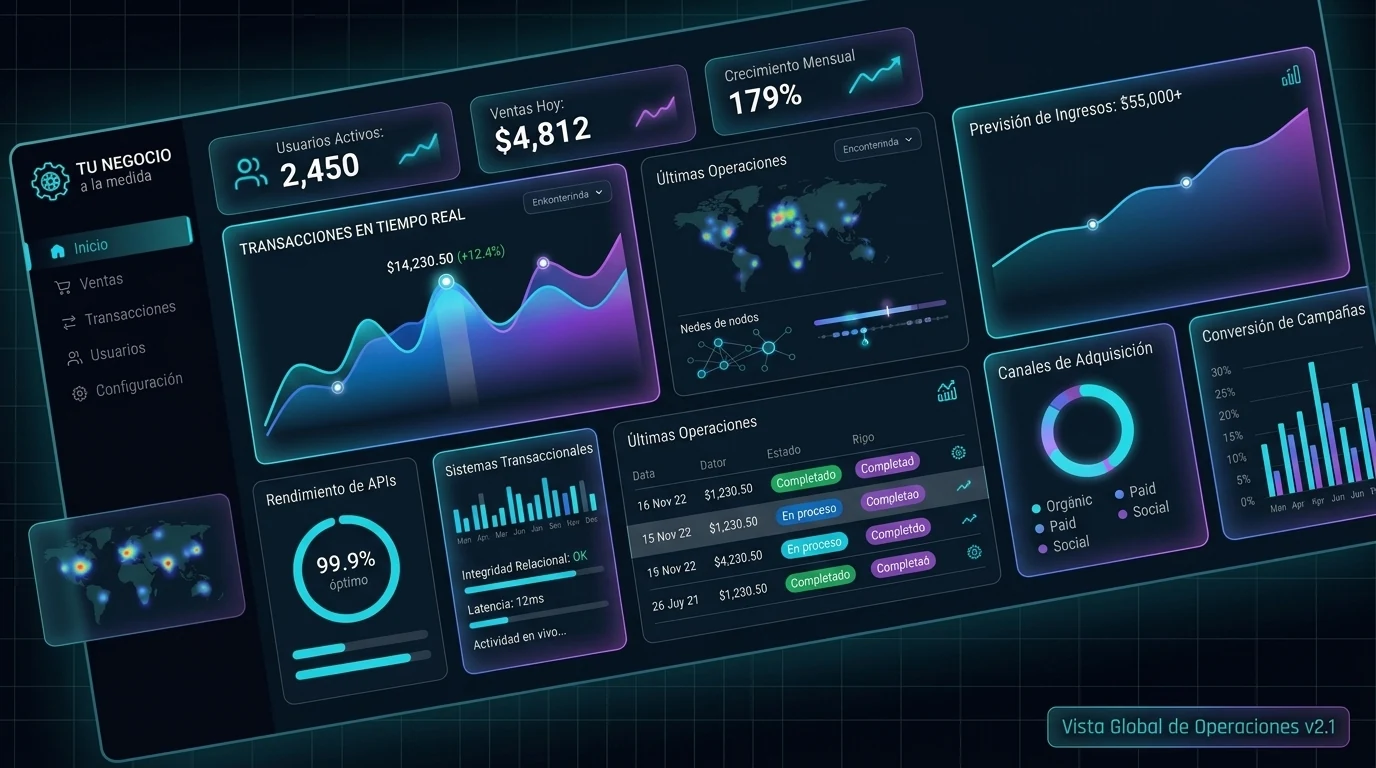
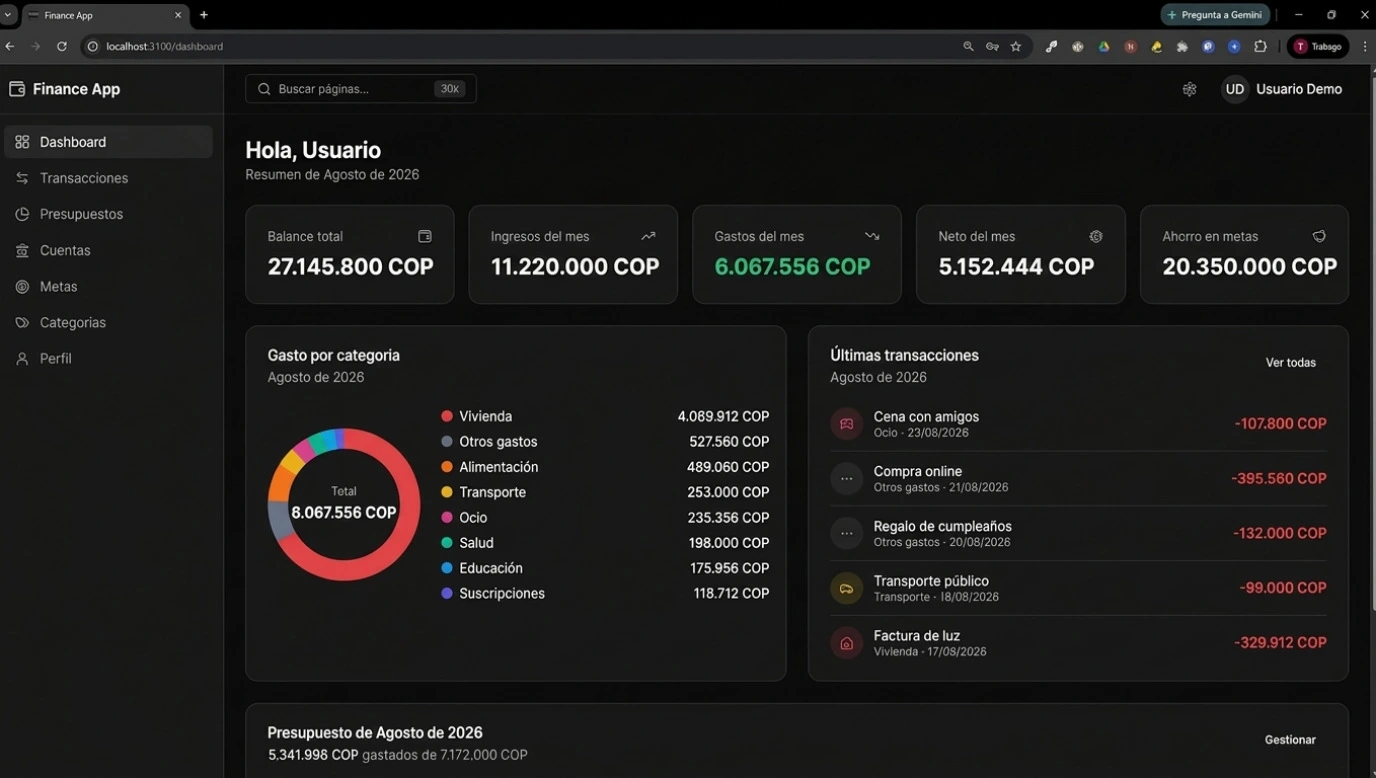
feat: correciones de diseño

diff --git a/src/app/pages/home/home.component.html b/src/app/pages/home/home.component.html
@@ -248,7 +248,7 @@
   </section>
 
   <!-- ========================================================================= -->
-  <!-- SECCIÓN EN COLOR NEGRO: Caso Insignia Validado (Repuestos Automotrices)   -->
+  <!-- SECCIÓN EN COLOR NEGRO: División Tecnología – Software a Medida            -->
   <!-- ========================================================================= -->
   <section class="relative bg-[#07070e] py-24 md:py-32 text-white overflow-hidden">
     <!-- Ambient Blue Glow -->
@@ -262,18 +262,18 @@
           <div
             class="inline-flex items-center gap-2 rounded-full border border-[#2F6BFF]/40 bg-[#2F6BFF]/10 px-3.5 py-1 text-xs font-mono uppercase tracking-wider text-[#5C98FF]">
             <span class="h-1.5 w-1.5 rounded-full bg-[#2F6BFF] animate-pulse"></span>
-            Caso de Validación Real
+            División Tecnología · Software a Medida
           </div>
 
           <h2
             class="font-display font-bold text-3xl sm:text-4xl lg:text-5xl text-white tracking-[-0.03em] leading-tight">
-            Digitalización Inteligente para Negocio de Repuestos Automotrices.
+            Control total de ventas, gastos e ingresos desde un solo lugar.
           </h2>
 
           <p class="text-zinc-300 text-base sm:text-lg leading-relaxed">
-            Tensor cuenta con una experiencia concreta que sirvió como punto de partida para la división tecnológica: el
-            desarrollo de un sistema para apoyar la administración y control interno de un negocio familiar de
-            repuestos.
+            Creamos software personalizado para que negocios y personas lleven sus registros financieros de forma
+            ordenada, visual y sin complicaciones: desde las ventas diarias de un comercio hasta el control de ingresos
+            y gastos personales mes a mes.
           </p>
 
           <div class="space-y-4 pt-2">
@@ -282,9 +282,9 @@
                 class="mt-1 flex h-6 w-6 shrink-0 items-center justify-center rounded-lg bg-[#2F6BFF]/20 text-[#5C98FF] font-mono text-xs font-bold">
                 ✓</div>
               <div>
-                <strong class="text-white text-sm block">Lectura de Registros Manuscritos con IA</strong>
-                <p class="text-xs text-zinc-400">Interpreta fotografías de cuadernos diarios escritos a mano, extrayendo
-                  ventas y calculando totales sin digitación manual.</p>
+                <strong class="text-white text-sm block">Registro de Ventas Diarias y Mensuales</strong>
+                <p class="text-xs text-zinc-400">Registra cada venta en segundos y obtén resúmenes automáticos por día,
+                  semana o mes con totales claros y sin fórmulas en Excel.</p>
               </div>
             </div>
 
@@ -293,9 +293,9 @@
                 class="mt-1 flex h-6 w-6 shrink-0 items-center justify-center rounded-lg bg-[#2F6BFF]/20 text-[#5C98FF] font-mono text-xs font-bold">
                 ✓</div>
               <div>
-                <strong class="text-white text-sm block">Diferenciación de Nequi y Bancolombia</strong>
-                <p class="text-xs text-zinc-400">Separa automáticamente los movimientos de dinero en efectivo frente a
-                  transferencias bancarias de plataformas móviles.</p>
+                <strong class="text-white text-sm block">Control de Gastos e Ingresos Personales</strong>
+                <p class="text-xs text-zinc-400">Categoriza cada movimiento de dinero, establece presupuestos y
+                  visualiza en tiempo real cuánto llevas gastado e ingresado en el mes.</p>
               </div>
             </div>
 
@@ -304,9 +304,9 @@
                 class="mt-1 flex h-6 w-6 shrink-0 items-center justify-center rounded-lg bg-[#2F6BFF]/20 text-[#5C98FF] font-mono text-xs font-bold">
                 ✓</div>
               <div>
-                <strong class="text-white text-sm block">Resúmenes Mensuales & Gastos Operativos</strong>
-                <p class="text-xs text-zinc-400">Consolida pagos a proveedores, servicios públicos y gastos fijos para
-                  brindar un reporte claro de la salud del negocio.</p>
+                <strong class="text-white text-sm block">Dashboard con Indicadores Clave</strong>
+                <p class="text-xs text-zinc-400">Balance total, ingresos del mes, gastos por categoría y neto disponible
+                  en un panel intuitivo diseñado para tomar decisiones rápidas.</p>
               </div>
             </div>
 
@@ -315,16 +315,16 @@
                 class="mt-1 flex h-6 w-6 shrink-0 items-center justify-center rounded-lg bg-[#2F6BFF]/20 text-[#5C98FF] font-mono text-xs font-bold">
                 ✓</div>
               <div>
-                <strong class="text-white text-sm block">Revisión Humana & Trazabilidad</strong>
-                <p class="text-xs text-zinc-400">No prometemos infalibilidad mágica: el sistema incluye interfaces para
-                  que el comerciante revise y apruebe cada dato antes de consolidarlo.</p>
+                <strong class="text-white text-sm block">Adaptado a tu Negocio o Perfil</strong>
+                <p class="text-xs text-zinc-400">No es una plantilla genérica: construimos la herramienta según tus
+                  categorías, métodos de pago y la forma en que ya trabajas.</p>
               </div>
             </div>
           </div>
 
           <div class="pt-4 flex flex-wrap items-center gap-4">
             <a routerLink="/labs" class="button-blue text-xs">
-              <span>Probar Simulador del Sistema</span>
+              <span>Ver Demo del Sistema</span>
             </a>
             <a routerLink="/contacto" class="button-ghost text-xs">
               <span>Consultar para tu Negocio</span>
@@ -350,11 +350,11 @@
                 </div>
                 <div
                   class="flex items-center gap-2 rounded-full border border-white/[0.06] bg-black/40 px-3 py-1 font-mono text-[10px] uppercase tracking-wider text-zinc-400">
-                  <span class="text-[#5C98FF]">tensor://</span>repuestos-auto/reporte-diario
+                  <span class="text-[#5C98FF]">tensor://</span>finance-app/dashboard
                 </div>
                 <div class="flex items-center gap-1.5 font-mono text-[10px] text-emerald-400">
                   <span class="h-1.5 w-1.5 rounded-full bg-emerald-400 animate-pulse"></span>
-                  <span>DATOS PROCESADOS</span>
+                  <span>EN VIVO</span>
                 </div>
               </div>
 
@@ -364,7 +364,7 @@
                   <source srcset="transaccional.webp" type="image/webp" />
                   <source srcset="transaccional.jpeg" type="image/jpeg" />
                   <img src="transaccional.webp" (error)="$any($event.target).src = 'transaccional.jpeg'"
-                    alt="Sistema de digitalización y reportes para negocio de repuestos"
+                    alt="Demo de software financiero a medida: dashboard con ventas, gastos e ingresos"
                     class="w-full h-auto object-cover transition-transform duration-700 ease-[cubic-bezier(0.16,1,0.3,1)] group-hover:scale-[1.015]"
                     loading="lazy" />
                 </picture>
@@ -374,16 +374,16 @@
               <div
                 class="p-6 bg-[#0e1120] border-t border-white/[0.06] font-mono text-xs grid grid-cols-3 gap-3 text-center">
                 <div class="rounded-lg bg-white/[0.03] p-3 border border-white/5">
-                  <span class="text-[10px] text-zinc-400 uppercase block">Ventas Efectivo</span>
-                  <span class="text-white font-bold text-sm">$ 840.000 COP</span>
+                  <span class="text-[10px] text-zinc-400 uppercase block">Ingresos del Mes</span>
+                  <span class="text-white font-bold text-sm">$ 11.220.000 COP</span>
                 </div>
                 <div class="rounded-lg bg-[#2F6BFF]/10 p-3 border border-[#2F6BFF]/20">
-                  <span class="text-[10px] text-[#5C98FF] uppercase block">Nequi / Bancolombia</span>
-                  <span class="text-[#5C98FF] font-bold text-sm">$ 620.000 COP</span>
+                  <span class="text-[10px] text-[#5C98FF] uppercase block">Gastos del Mes</span>
+                  <span class="text-[#5C98FF] font-bold text-sm">$ 6.067.556 COP</span>
                 </div>
                 <div class="rounded-lg bg-emerald-950/30 p-3 border border-emerald-500/20">
-                  <span class="text-[10px] text-emerald-400 uppercase block">Total Conciliado</span>
-                  <span class="text-emerald-400 font-bold text-sm">$ 1.460.000 COP</span>
+                  <span class="text-[10px] text-emerald-400 uppercase block">Neto Disponible</span>
+                  <span class="text-emerald-400 font-bold text-sm">$ 5.152.444 COP</span>
                 </div>
               </div>
             </div>
